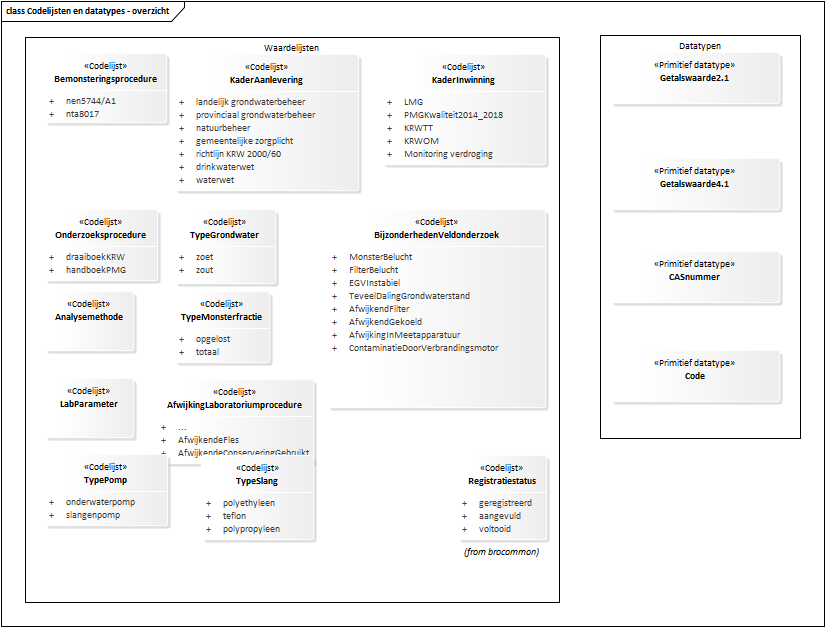
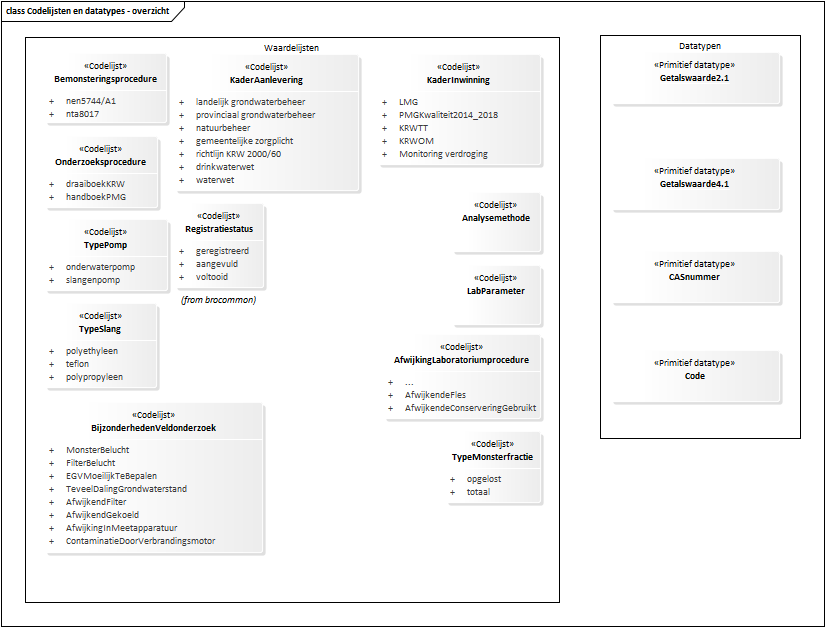
Conceptualmodel-GrondwatersamenstellingsonderzoekGAR-0.1-0-20180315-20180524-093804

diff --git a/data/GAR-cat.html b/data/GAR-cat.html
@@ -1,10 +1,10 @@
 <h2>Catalogus</h2>
 <p class="note" title="Over deze catalogus">
    Deze catalogus is automatisch samengesteld op basis van het UML model 
-   "Grondwatersamenstellingsonderzoek (GAR)" door 1.43.3 op May 22, 2018 at 13:51:46.
+   "Grondwatersamenstellingsonderzoek (GAR)" door 1.43.3 op May 24, 2018 at 07:38:02.
    <br>
    Wanneer je technische fouten of onvolkomenheden aantreft, geef dit dan door aan <i>arjan@linkedmatter.com</i> en geef de code 
-   <i>"Conceptualmodel-GrondwatersamenstellingsonderzoekGAR-0.1-0-20180315-20180522-155147"</i> door. 
+   <i>"Conceptualmodel-GrondwatersamenstellingsonderzoekGAR-0.1-0-20180315-20180524-093804"</i> door. 
    Voor inhoudelijke fouten neem contact op met het modellenteam: <i>github@basisregistratieondergrond.nl</i>.
    
 </p><a class="anchor" name="global_package_Model"></a><section id="global_package_Model">
@@ -1094,10 +1094,6 @@
             <tr>
                <th><a class="anchor" name="global_class_Model_Onderzoeksprocedure"></a><a class="link" href="#detail_class_Model_Onderzoeksprocedure">Onderzoeksprocedure</a></th>
                <td></td>
-            </tr>
-            <tr>
-               <th><a class="anchor" name="global_class_Model_TypeGrondwater"></a><a class="link" href="#detail_class_Model_TypeGrondwater">TypeGrondwater</a></th>
-               <td>Classificatie van het grondwater op basis van saliniteit.</td>
             </tr>
             <tr>
                <th><a class="anchor" name="global_class_Model_TypeMonsterfractie"></a><a class="link" href="#detail_class_Model_TypeMonsterfractie">TypeMonsterfractie</a></th>
@@ -3919,7 +3915,7 @@
                </tr>
                <tr>
                   <td></td>
-                  <td>EGVInstabiel</td>
+                  <td>EGVMoeilijkTeBepalen</td>
                   <td></td>
                </tr>
                <tr>
@@ -4119,45 +4115,6 @@
                <tr>
                   <td></td>
                   <td>handboekPMG</td>
-                  <td></td>
-               </tr>
-            </tbody>
-         </table>
-         
-      </section>
-      <a class="anchor" name="detail_class_Model_TypeGrondwater"></a><section id="detail_class_Model_TypeGrondwater">
-         <h6>Codelijst details <a href="#"></a> TypeGrondwater
-         </h6>
-         
-         <table>
-            <colgroup width="40%"></colgroup>
-            <colgroup width="60%"></colgroup>
-            <tbody>
-               <tr>
-                  <th>Definitie</th>
-                  <td>Classificatie van het grondwater op basis van saliniteit.</td>
-               </tr>
-            </tbody>
-         </table>
-         
-         <table>
-            <colgroup width="10%"></colgroup>
-            <colgroup width="30%"></colgroup>
-            <colgroup width="60%"></colgroup>
-            <tbody>
-               <tr>
-                  <th>Code</th>
-                  <th>Naam</th>
-                  <th>Definitie</th>
-               </tr>
-               <tr>
-                  <td></td>
-                  <td>zoet</td>
-                  <td></td>
-               </tr>
-               <tr>
-                  <td></td>
-                  <td>zout</td>
                   <td></td>
                </tr>
             </tbody>
